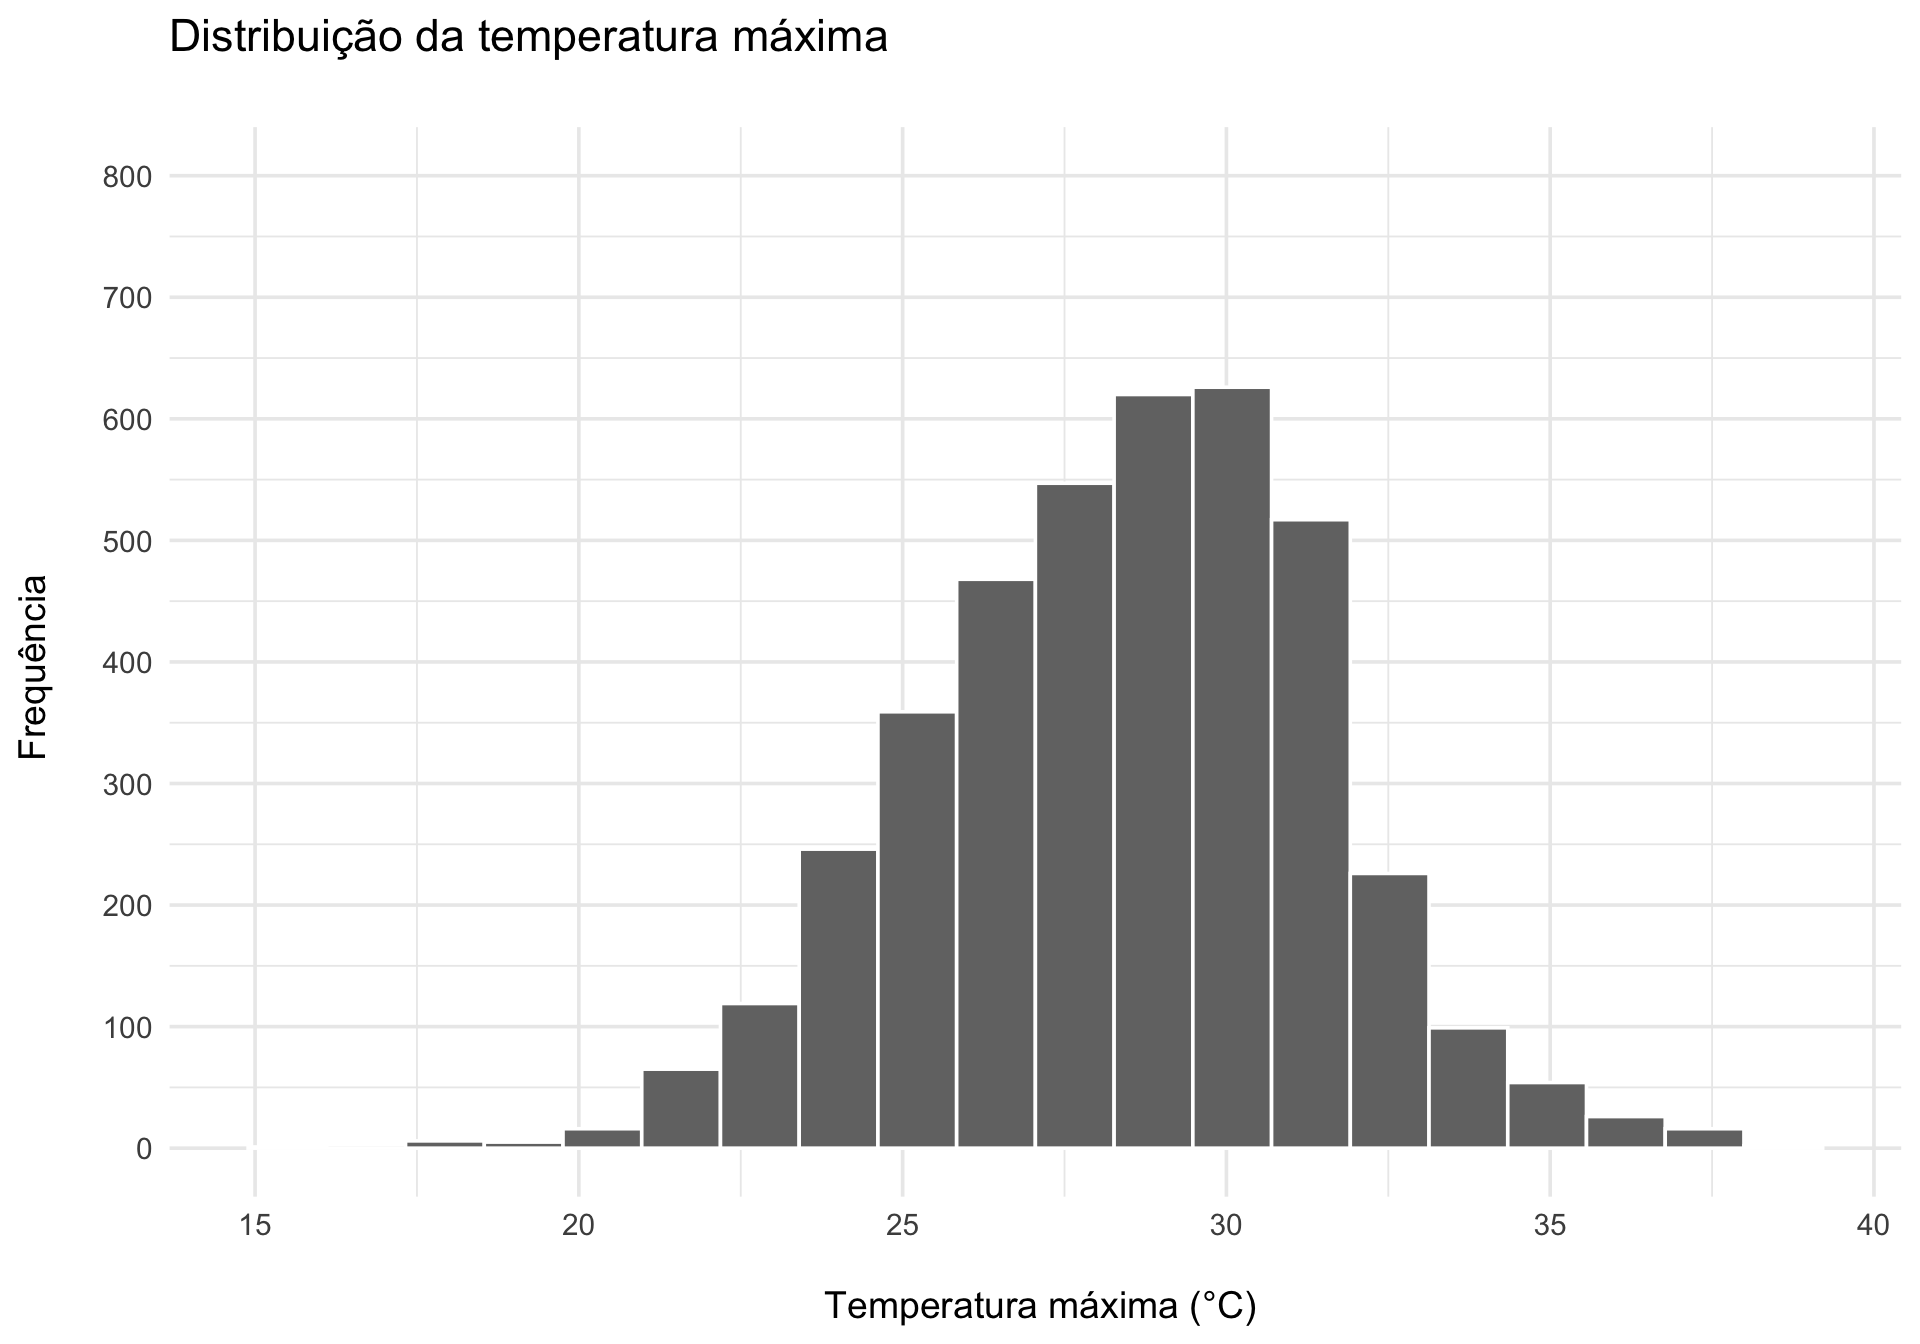
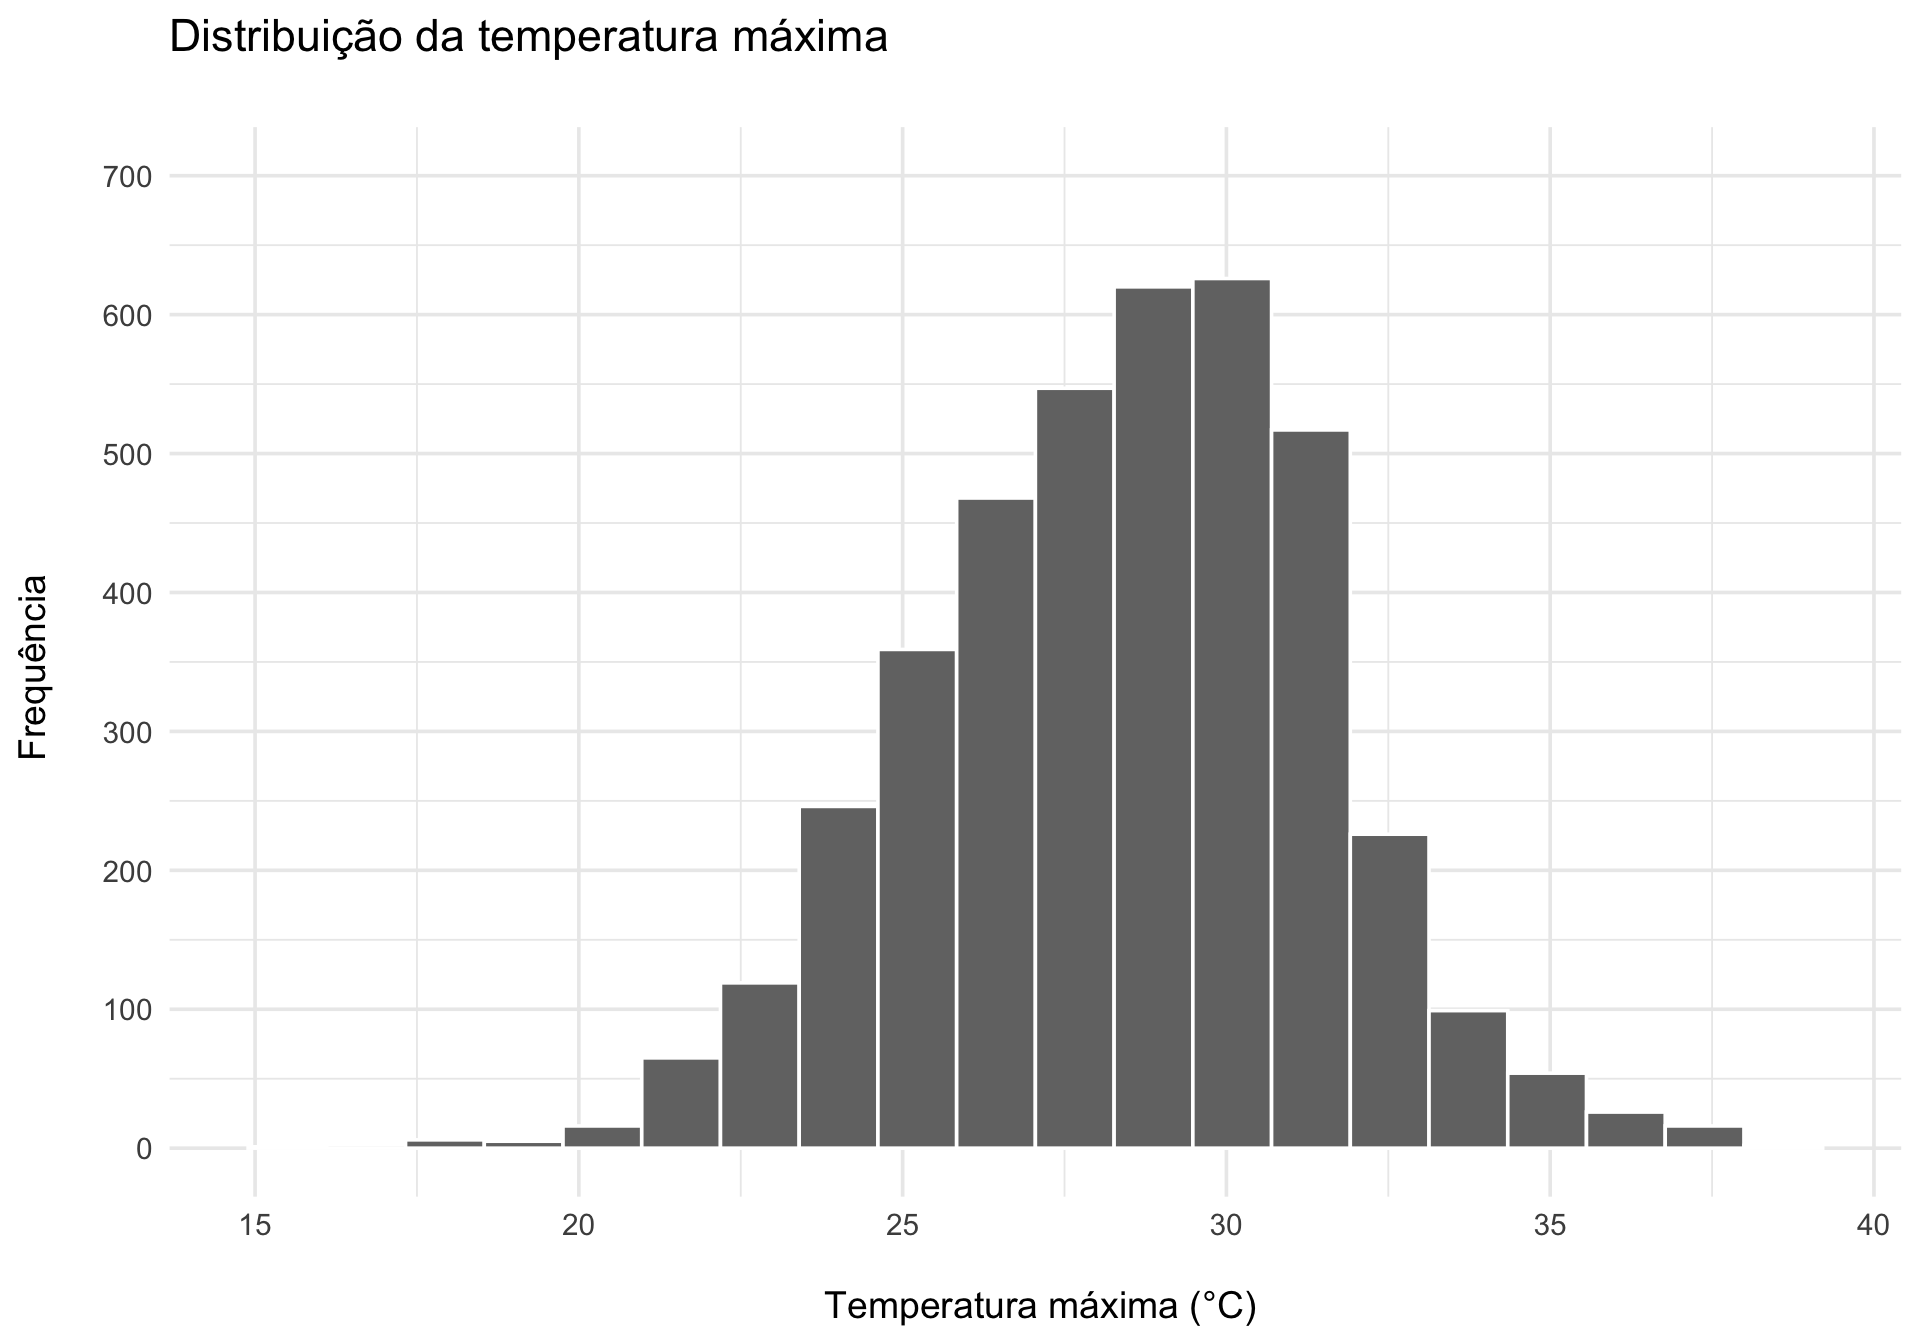
Update

diff --git a/docs/07 - Análise de temperatura e mortalidade.html b/docs/07 - Análise de temperatura e mortalidade.html
@@ -550,21 +550,26 @@ pre > code.sourceCode > span > a:first-child::before { text-decoration: underlin
 <span id="cb13-14"><a href="#cb13-14" aria-hidden="true" tabindex="-1"></a>  <span class="fu">ylab</span>(<span class="st">"Frequência </span><span class="sc">\n</span><span class="st">"</span>) <span class="sc">+</span></span>
 <span id="cb13-15"><a href="#cb13-15" aria-hidden="true" tabindex="-1"></a>  <span class="co"># Título do gráfico</span></span>
 <span id="cb13-16"><a href="#cb13-16" aria-hidden="true" tabindex="-1"></a>  <span class="fu">ggtitle</span>(<span class="st">"Distribuição da temperatura média </span><span class="sc">\n</span><span class="st">"</span>) <span class="sc">+</span></span>
-<span id="cb13-17"><a href="#cb13-17" aria-hidden="true" tabindex="-1"></a>  <span class="co"># Tema visual</span></span>
-<span id="cb13-18"><a href="#cb13-18" aria-hidden="true" tabindex="-1"></a>  <span class="fu">theme_minimal</span>(<span class="at">base_size =</span> <span class="dv">14</span>)</span>
-<span id="cb13-19"><a href="#cb13-19" aria-hidden="true" tabindex="-1"></a></span>
-<span id="cb13-20"><a href="#cb13-20" aria-hidden="true" tabindex="-1"></a><span class="co"># Salvar</span></span>
-<span id="cb13-21"><a href="#cb13-21" aria-hidden="true" tabindex="-1"></a><span class="fu">ggsave</span>(</span>
-<span id="cb13-22"><a href="#cb13-22" aria-hidden="true" tabindex="-1"></a>  <span class="at">filename =</span> <span class="fu">file.path</span>(<span class="st">"figuras"</span>, <span class="st">"temp_media.jpg"</span>),</span>
-<span id="cb13-23"><a href="#cb13-23" aria-hidden="true" tabindex="-1"></a>  <span class="at">plot =</span> grafico_temp_media,</span>
-<span id="cb13-24"><a href="#cb13-24" aria-hidden="true" tabindex="-1"></a>  <span class="at">width =</span> <span class="dv">21</span>,</span>
-<span id="cb13-25"><a href="#cb13-25" aria-hidden="true" tabindex="-1"></a>  <span class="at">height =</span> <span class="dv">12</span>,</span>
-<span id="cb13-26"><a href="#cb13-26" aria-hidden="true" tabindex="-1"></a>  <span class="at">units =</span> <span class="st">"in"</span>,</span>
-<span id="cb13-27"><a href="#cb13-27" aria-hidden="true" tabindex="-1"></a>  <span class="at">dpi =</span> <span class="dv">300</span></span>
-<span id="cb13-28"><a href="#cb13-28" aria-hidden="true" tabindex="-1"></a>)</span>
-<span id="cb13-29"><a href="#cb13-29" aria-hidden="true" tabindex="-1"></a></span>
-<span id="cb13-30"><a href="#cb13-30" aria-hidden="true" tabindex="-1"></a><span class="co"># Exibir</span></span>
-<span id="cb13-31"><a href="#cb13-31" aria-hidden="true" tabindex="-1"></a>grafico_temp_media</span></code></pre></div><button title="Copiar para a área de transferência" class="code-copy-button"><i class="bi"></i></button></div>
+<span id="cb13-17"><a href="#cb13-17" aria-hidden="true" tabindex="-1"></a>  <span class="co"># Eixo y</span></span>
+<span id="cb13-18"><a href="#cb13-18" aria-hidden="true" tabindex="-1"></a>  <span class="fu">scale_y_continuous</span>(</span>
+<span id="cb13-19"><a href="#cb13-19" aria-hidden="true" tabindex="-1"></a>    <span class="at">breaks =</span> <span class="fu">seq</span>(<span class="dv">0</span>, <span class="dv">700</span>, <span class="at">by =</span> <span class="dv">100</span>),</span>
+<span id="cb13-20"><a href="#cb13-20" aria-hidden="true" tabindex="-1"></a>    <span class="at">limits =</span> <span class="fu">c</span>(<span class="dv">0</span>, <span class="dv">700</span>)</span>
+<span id="cb13-21"><a href="#cb13-21" aria-hidden="true" tabindex="-1"></a>  ) <span class="sc">+</span></span>
+<span id="cb13-22"><a href="#cb13-22" aria-hidden="true" tabindex="-1"></a>  <span class="co"># Tema visual</span></span>
+<span id="cb13-23"><a href="#cb13-23" aria-hidden="true" tabindex="-1"></a>  <span class="fu">theme_minimal</span>(<span class="at">base_size =</span> <span class="dv">14</span>)</span>
+<span id="cb13-24"><a href="#cb13-24" aria-hidden="true" tabindex="-1"></a></span>
+<span id="cb13-25"><a href="#cb13-25" aria-hidden="true" tabindex="-1"></a><span class="co"># Salvar</span></span>
+<span id="cb13-26"><a href="#cb13-26" aria-hidden="true" tabindex="-1"></a><span class="fu">ggsave</span>(</span>
+<span id="cb13-27"><a href="#cb13-27" aria-hidden="true" tabindex="-1"></a>  <span class="at">filename =</span> <span class="fu">file.path</span>(<span class="st">"figuras"</span>, <span class="st">"temp_media.jpg"</span>),</span>
+<span id="cb13-28"><a href="#cb13-28" aria-hidden="true" tabindex="-1"></a>  <span class="at">plot =</span> grafico_temp_media,</span>
+<span id="cb13-29"><a href="#cb13-29" aria-hidden="true" tabindex="-1"></a>  <span class="at">width =</span> <span class="dv">21</span>,</span>
+<span id="cb13-30"><a href="#cb13-30" aria-hidden="true" tabindex="-1"></a>  <span class="at">height =</span> <span class="dv">12</span>,</span>
+<span id="cb13-31"><a href="#cb13-31" aria-hidden="true" tabindex="-1"></a>  <span class="at">units =</span> <span class="st">"in"</span>,</span>
+<span id="cb13-32"><a href="#cb13-32" aria-hidden="true" tabindex="-1"></a>  <span class="at">dpi =</span> <span class="dv">300</span></span>
+<span id="cb13-33"><a href="#cb13-33" aria-hidden="true" tabindex="-1"></a>)</span>
+<span id="cb13-34"><a href="#cb13-34" aria-hidden="true" tabindex="-1"></a></span>
+<span id="cb13-35"><a href="#cb13-35" aria-hidden="true" tabindex="-1"></a><span class="co"># Exibir</span></span>
+<span id="cb13-36"><a href="#cb13-36" aria-hidden="true" tabindex="-1"></a>grafico_temp_media</span></code></pre></div><button title="Copiar para a área de transferência" class="code-copy-button"><i class="bi"></i></button></div>
 </details>
 <div class="cell-output-display">
 <div>
@@ -590,8 +595,8 @@ pre > code.sourceCode > span > a:first-child::before { text-decoration: underlin
 <span id="cb14-11"><a href="#cb14-11" aria-hidden="true" tabindex="-1"></a>  <span class="fu">ylab</span>(<span class="st">"Frequência </span><span class="sc">\n</span><span class="st">"</span>) <span class="sc">+</span></span>
 <span id="cb14-12"><a href="#cb14-12" aria-hidden="true" tabindex="-1"></a>  <span class="fu">ggtitle</span>(<span class="st">"Distribuição da temperatura máxima </span><span class="sc">\n</span><span class="st">"</span>) <span class="sc">+</span></span>
 <span id="cb14-13"><a href="#cb14-13" aria-hidden="true" tabindex="-1"></a>  <span class="fu">scale_y_continuous</span>(</span>
-<span id="cb14-14"><a href="#cb14-14" aria-hidden="true" tabindex="-1"></a>    <span class="at">breaks =</span> <span class="fu">seq</span>(<span class="dv">0</span>, <span class="dv">800</span>, <span class="at">by =</span> <span class="dv">100</span>),</span>
-<span id="cb14-15"><a href="#cb14-15" aria-hidden="true" tabindex="-1"></a>    <span class="at">limits =</span> <span class="fu">c</span>(<span class="dv">0</span>, <span class="dv">800</span>)</span>
+<span id="cb14-14"><a href="#cb14-14" aria-hidden="true" tabindex="-1"></a>    <span class="at">breaks =</span> <span class="fu">seq</span>(<span class="dv">0</span>, <span class="dv">700</span>, <span class="at">by =</span> <span class="dv">100</span>),</span>
+<span id="cb14-15"><a href="#cb14-15" aria-hidden="true" tabindex="-1"></a>    <span class="at">limits =</span> <span class="fu">c</span>(<span class="dv">0</span>, <span class="dv">700</span>)</span>
 <span id="cb14-16"><a href="#cb14-16" aria-hidden="true" tabindex="-1"></a>  ) <span class="sc">+</span></span>
 <span id="cb14-17"><a href="#cb14-17" aria-hidden="true" tabindex="-1"></a>  <span class="fu">theme_minimal</span>(<span class="at">base_size =</span> <span class="dv">14</span>)</span>
 <span id="cb14-18"><a href="#cb14-18" aria-hidden="true" tabindex="-1"></a></span>
